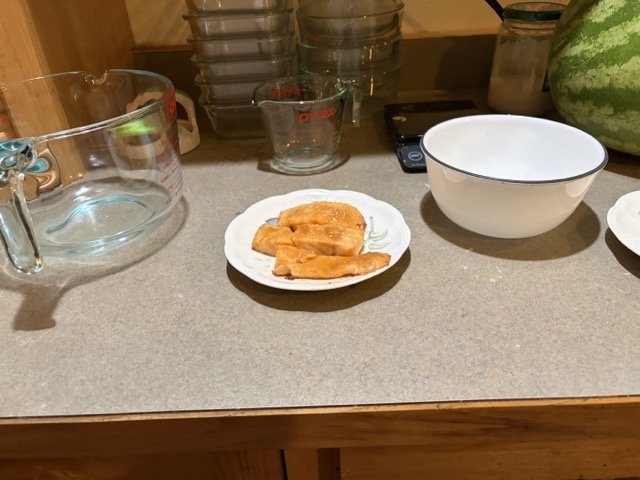
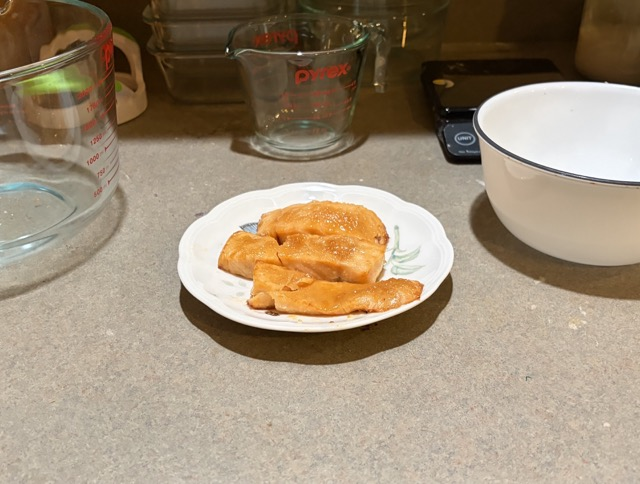
Adding recipe.

diff --git a/styles.css b/styles.css
@@ -305,7 +305,7 @@ img {
 .recipe-card p {
   margin: 0;
   color: var(--muted);
-  font-size: .8rem;
+  font-size: .7rem;
   /* line-height: 1.5; */
   overflow-wrap: anywhere;
   word-break: break-word;